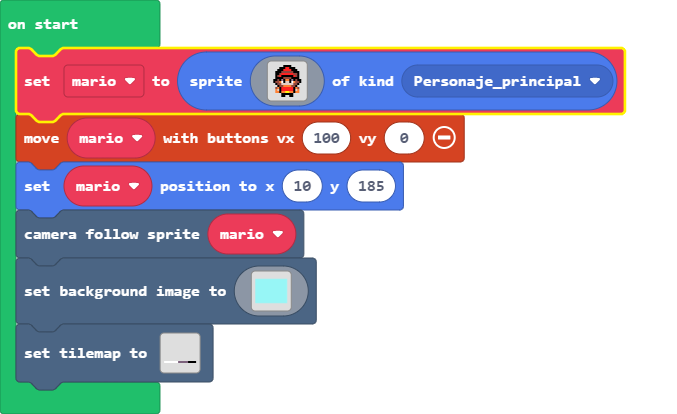
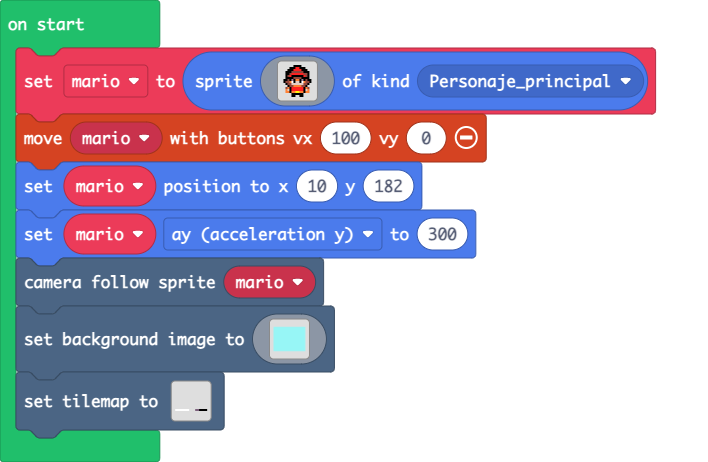
Update main.blocks, main.ts, tilemap.g.jres, tilemap.g.ts

Changed region(s): [[0.0, 0.0, 0.9306, 1.0], [0.0, 0.8986, 0.031, 0.9275]]

diff --git a/tilemap.g.ts b/tilemap.g.ts
@@ -8,7 +8,7 @@ namespace myTiles {
     helpers._registerFactory("tilemap", function(name: string) {
         switch(helpers.stringTrim(name)) {
             case "level1":
-            case "level1":return tiles.createTilemap(hex`1000100000000000000000000000000000000000000000000000000000000000000000000000000000000000000000000000000000000000000000000000000000000000000000000000000000000000000000000000000000000000000000000000000000000000000000000000000000000000000000000000000000000000000000000000000000000000000000000000000000000000000000000000000000000000000000000000000000000000000000000000000000000000000000000000000001010101010101020202020203030303000000000000000000000000000000000000000000000000000000000000000000000000000000000000000000000000`, img`
+            case "level1":return tiles.createTilemap(hex`1000100000000000000000000000000000000000000000000000000000000000000000000000000000000000000000000000000000000000000000000000000000000000000000000000000000000000000000000000000000000000000000000000000000000000000000000000000000000000000000000000000000000000000000000000000000000000000000000000000000000000000000000000000000000000000000000000000000000000000000000000000000000000000000000000000001010101010101000000020203030303000000000000000000000000000000000000000000000000000000000000000000000000000000000000000000000000`, img`
 . . . . . . . . . . . . . . . . 
 . . . . . . . . . . . . . . . . 
 . . . . . . . . . . . . . . . . 
@@ -21,7 +21,7 @@ namespace myTiles {
 . . . . . . . . . . . . . . . . 
 . . . . . . . . . . . . . . . . 
 . . . . . . . . . . . . . . . . 
-. . . . . . . . . . . . . . . . 
+2 2 2 2 2 2 2 . . . 2 2 2 2 2 2 
 . . . . . . . . . . . . . . . . 
 . . . . . . . . . . . . . . . . 
 . . . . . . . . . . . . . . . . 

diff --git a/main.ts b/main.ts
@@ -20,7 +20,8 @@ let mario = sprites.create(img`
     . . . . . f f . . f f . . . . . 
     `, SpriteKind.Personaje_principal)
 controller.moveSprite(mario, 100, 0)
-mario.setPosition(10, 185)
+mario.setPosition(10, 182)
+mario.ay = 300
 scene.cameraFollowSprite(mario)
 scene.setBackgroundImage(img`
     9999999999999999999999999999999999999999999999999999999999999999999999999999999999999999999999999999999999999999999999999999999999999999999999999999999999999999
